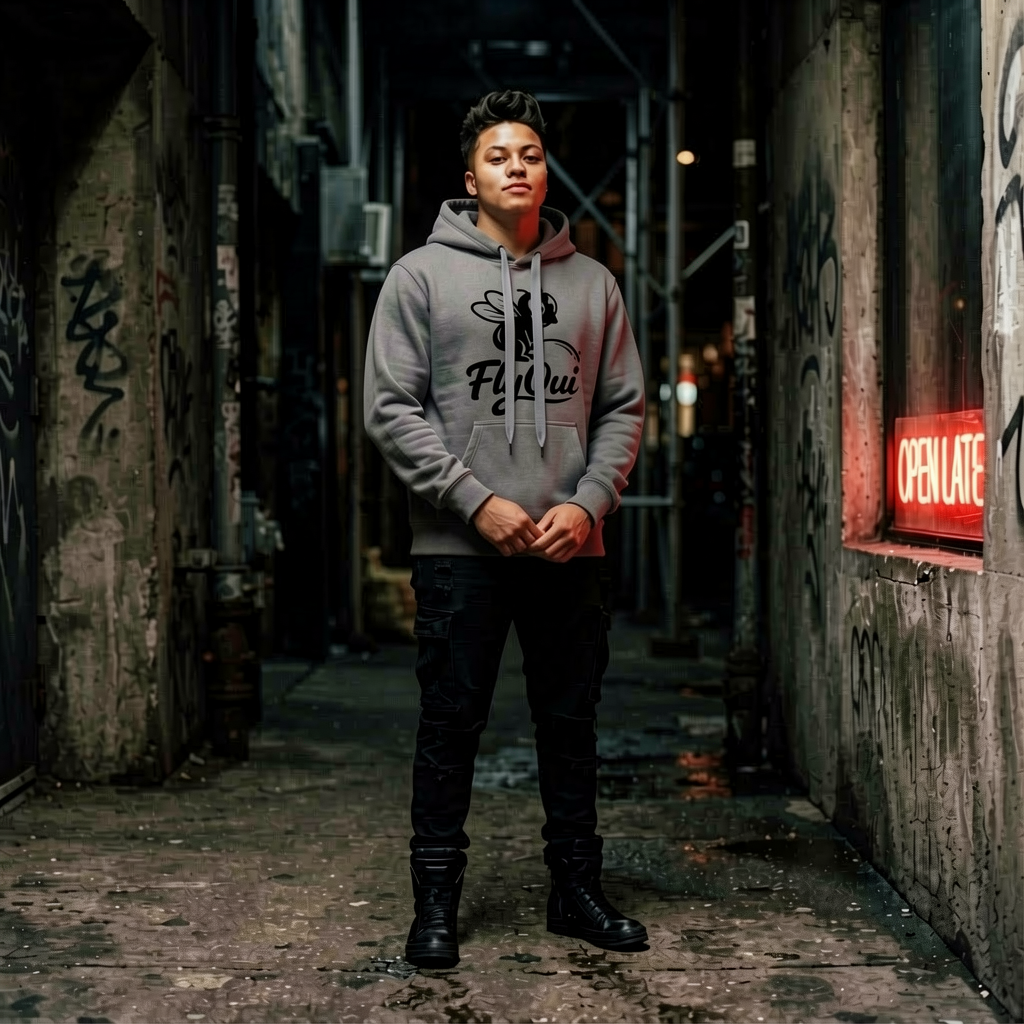
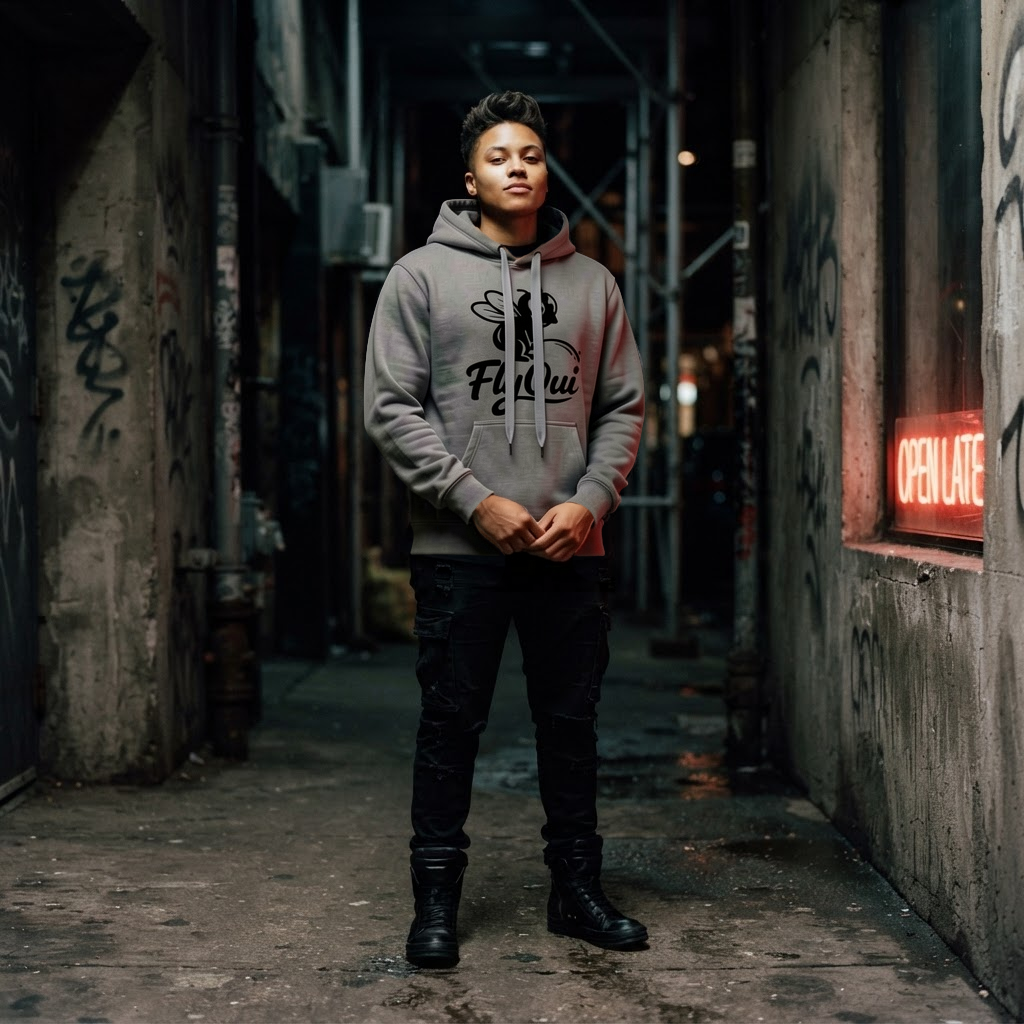
discription and image changes

diff --git a/lib/site.ts b/lib/site.ts
@@ -31,20 +31,20 @@ export type Product = {
 export const PRODUCTS: Product[] = [
   {
     id: 'midnight-tee',
-    title: 'Midnight Oversized Tee',
+    title: 'White Oversized Tee',
     type: 'T-Shirt',
     description:
-      'Boxy, drop-shoulder cut in off-white heavyweight cotton. Understated by day, statement by night.',
+      'Boxy, drop-shoulder cut in off-white heavyweight cotton. Baggy fit to feel the cool breeze in summer.',
     image: '/images/product-tee-1.png',
     etsyUrl: '#', // <-- Etsy listing
     ebayUrl: '#', // <-- eBay listing
   },
   {
     id: 'core-hoodie',
-    title: 'Core Heavyweight Hoodie',
+    title: 'Large Print Hoodie',
     type: 'Hoodie',
     description:
-      'Our signature 450gsm brushed fleece with a structured hood and matte drawcords. Built to outlast trends.',
+      '350gsm 100% Heavy cottom with a structured hood and matte drawcords. Built to outlast trends.',
     image: '/images/product-hoodie-1.png',
     etsyUrl: '#',
     ebayUrl: '#',
@@ -54,27 +54,27 @@ export const PRODUCTS: Product[] = [
     title: 'Static Graphic Tee',
     type: 'T-Shirt',
     description:
-      'Deep black cotton with a hand-drawn red chest mark. Screen printed in small batches for a lived-in feel.',
+      'Dark grey cotton with large print black logo on chest. Vinyl pressed in small batches for a lived-in feel.',
     image: '/images/product-tee-2.png',
     etsyUrl: '#',
     ebayUrl: '#',
   },
   {
     id: 'eclipse-hoodie',
-    title: 'Eclipse Zip Hoodie',
+    title: 'White Zip Hoodie',
     type: 'Hoodie',
     description:
-      'Cream-toned full-zip with a garment-dyed finish and antique metal hardware. Layer-ready year round.',
+      'Cream-toned full-zip, front pockets, with a discrete pocket sized logo. Layer-ready year round.',
     image: '/images/product-hoodie-2.png',
     etsyUrl: '#',
     ebayUrl: '#',
   },
   {
-    id: 'faded-tee',
-    title: 'Faded Wash Tee',
+    id: 'Strap-tee',
+    title: 'Classic Imperfect Tee',
     type: 'T-Shirt',
     description:
-      'Stone-washed grey with a vintage back print. Every piece fades a little differently — that is the point.',
+      'Hand-finished. Intentionally flawed. No two alike. Made by hand, not by algorithm. Embrace the subtle flaws—thats where the character lives. This vinyl tee is raw, irregular, and entirely unique to you. Wear the discrepancy.  .',
     image: '/images/product-tee-3.png',
     etsyUrl: '#',
     ebayUrl: '#',
@@ -84,7 +84,7 @@ export const PRODUCTS: Product[] = [
     title: 'Shadow Pullover Hoodie',
     type: 'Hoodie',
     description:
-      'Oversized black pullover with a tonal red embroidered logo. Heavyweight comfort with a sharp silhouette.',
+      'Oversized black pullover with small discrete white logo. Heavyweight comfort 100% cotton.',
     image: '/images/product-hoodie-3.png',
     etsyUrl: '#',
     ebayUrl: '#',

diff --git a/components/brand-story.tsx b/components/brand-story.tsx
@@ -35,7 +35,9 @@ export function BrandStory() {
             <p>
               Every design begins with a simple idea and ends as a limited run. No mass
               production, no filler, no throwaway drops. Just considered pieces we&apos;d proudly
-              wear ourselves.
+              wear ourselves. Not mass-produced. Not symmetrical. Not sorry. Each piece carries its own unique marks 
+              from the making process, making your shirt truly one-of-a-kind. Raw, irregular, and entirely unique to you.
+               Wear the discrepancy. The slight variations aren't mistakes—they're the signature.
             </p>
           </div>
 
